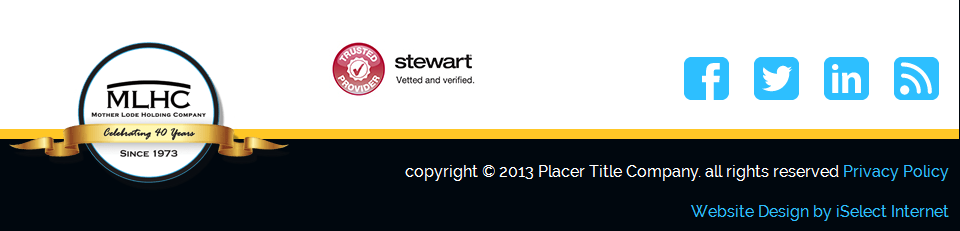
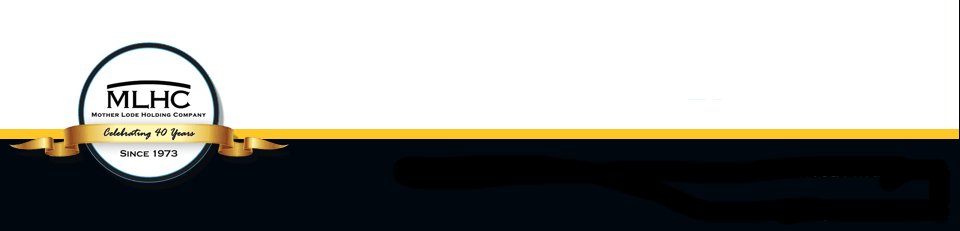
some footer fixes

diff --git a/PTCOrderSite/styles.css b/PTCOrderSite/styles.css
@@ -244,12 +244,21 @@ input {
     margin-top: -5px;
 }
 
+#copyright {
+    color: white;
+    position: absolute;
+    text-align: right;
+    width: 960px;
+    margin-top: -93px;
+    font: 16px/1.5 Raleway,Helvetica,Arial,Verdana,sans-serif;
+}
 
 #footer {
     background-image: url("/images/footer_background.png");
     background-repeat: repeat;
     height: 300px;
     width: 960px;
+    margin-left: 1px;
 }
 
 #shadow-left {
